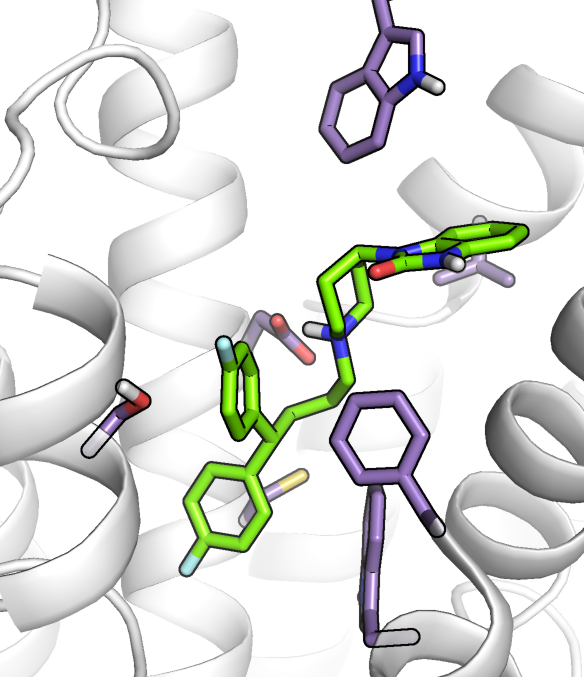
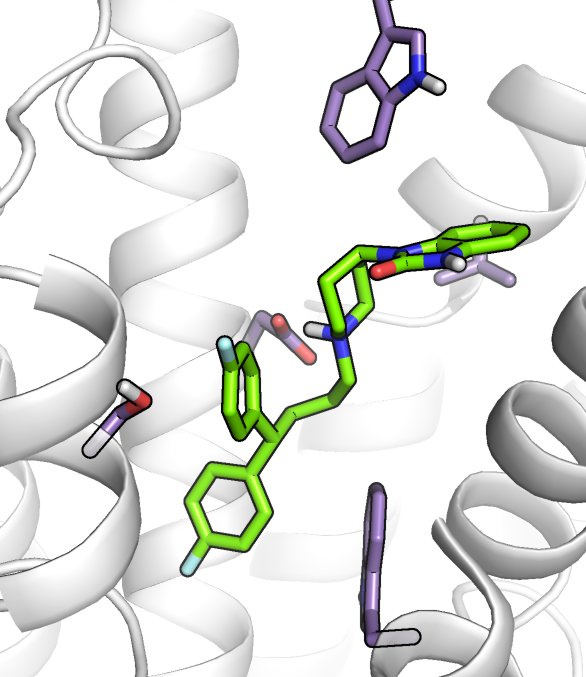
Updated D2 panels.

diff --git a/pymol/raw.py b/pymol/raw.py
@@ -1,0 +1,51 @@
+from pymol import cmd
+from glob import glob
+
+def raw(protein):
+    for prot in sorted(glob('{}/structures/aligned/*'.format(protein))):
+        pdb = prot.split('/')[-1]
+        load_crystal_protein(protein, pdb)
+        load_crystal_pose(protein, pdb)
+        
+    cmd.util.cbao("prot_*")
+    cmd.util.cbay("het and crystal_*")
+    cmd.show('sticks', "het and crystal_*")
+    cmd.hide('lines', 'element h')
+    cmd.show('spheres', 'het and prot* and (crystal* expand 5)')
+
+    cmd.show('cartoon')
+    cmd.set('cartoon_oval_length', '0.5')
+    cmd.set('cartoon_transparency', '0.5')
+    cmd.hide('everything', 'element H and not (element N+O extend 1)')
+    cmd.hide('everything', 'name H')
+
+def load_crystal_protein(protein, ligand):
+    cmd.load('{0}/structures/aligned/{1}/{1}_prot.mae'.format(protein, ligand))
+    cmd.set_name('{}_prot'.format(ligand), 'prot_{}'.format(ligand))
+
+def load_crystal_pose(protein, ligand):
+    cmd.load('{0}/structures/aligned/{1}/{1}_lig.mae'.format(protein, ligand))
+    cmd.set_name('{}_lig'.format(ligand), 'crystal_{}'.format(ligand))
+
+def ambiguous(protein):
+    for lig in sorted(glob('{}/structures/initial_files/*_*_lig.mae'.format(protein))):
+        pdb, het, _ = lig.split('/')[-1].split('_')
+        complexname = '{}-{}'.format(pdb, het)
+        ligname = '{}-lig'.format(complexname)
+        protname = '{}-prot'.format(complexname)
+        cmd.load(lig, ligname)
+        cmd.show('sticks', ligname)
+        cmd.load(lig.replace('lig', 'prot'), protname)
+
+        cmd.create(complexname, '{} or {}'.format(ligname, protname))
+
+        cmd.delete(ligname)
+        cmd.delete(protname)
+
+def alignall(ref):
+    for obj in cmd.get_names():
+        cmd.align(obj, ref)
+
+cmd.extend('raw', raw)
+cmd.extend('ambiguous', ambiguous)
+cmd.extend('alignall', alignall)

diff --git a/score/controller.py b/score/controller.py
@@ -25,7 +25,7 @@ from grouper import grouper
 
 group_size = 4
 num_ligs = [1, 3, 5, 10, 15, 20]
-alpha_factors = [1.71]
+alpha_factors = [1.0, 2.0]
 features = [['mcss', 'contact', 'hbond', 'sb'],
             #['mcss', 'contact', 'sb', 'hbond_donor', 'hbond_acceptor'],
             #['mcss', 'hbond', 'sb'],
@@ -109,14 +109,16 @@ def score(stats_root, struct, protein, ligands, use_crystal_pose,
     os.chdir('..')
 
 def compute_stats(protein, stats_root):
-    stats_prots = [p for p in proteins if p != protein.lm.protein]
+    stats_prots = [p for p in proteins if p != protein.lm.protein and p != 'DHFR']
 
     # Statistics computation.
     stats = statistics(stats_prots, feature_defs.keys())
     for dist, interactions in stats.items():
         for interaction, de in interactions.items():
-            with open('{}/{}_{}.txt'.format(stats_root, dist, interaction), 'w') as fp:
-                fp.write(str(de)+'\n')
+            fname = '{}/{}_{}.txt'.format(stats_root, dist, interaction)
+            if not os.path.exists(fname):
+                with open(fname, 'w') as fp:
+                    fp.write(str(de)+'\n')
 
 def run_pdb():
     for i, d in enumerate(proteins):

diff --git a/pymol/view_complexes.py b/pymol/view_complexes.py
@@ -25,7 +25,7 @@ def load_crystal_protein(protein, ligand):
     cmd.set_name('{}_prot'.format(ligand), 'prot_{}'.format(ligand))
 
 def load_crystal_pose(protein, ligand):
-    cmd.load('{}/ligands/prepared_ligands/{}_lig.mae'.format(protein, ligand))
+    cmd.load('{}/ligands/prepared_ligands/{}_lig/{}_lig.mae'.format(protein, ligand, ligand))
     cmd.set_name('{}_lig'.format(ligand), 'crystal_{}'.format(ligand))
 
 ###################################################################

diff --git a/dock/pick_helpers.py b/dock/pick_helpers.py
@@ -1,7 +1,7 @@
 import os
 import sys
 
-def pick_helpers(lm, maxnum=21):
+def pick_helpers(lm, maxnum=20):
 
     parent = 'chembl/helpers'
     os.system('mkdir -p {}'.format(parent))
